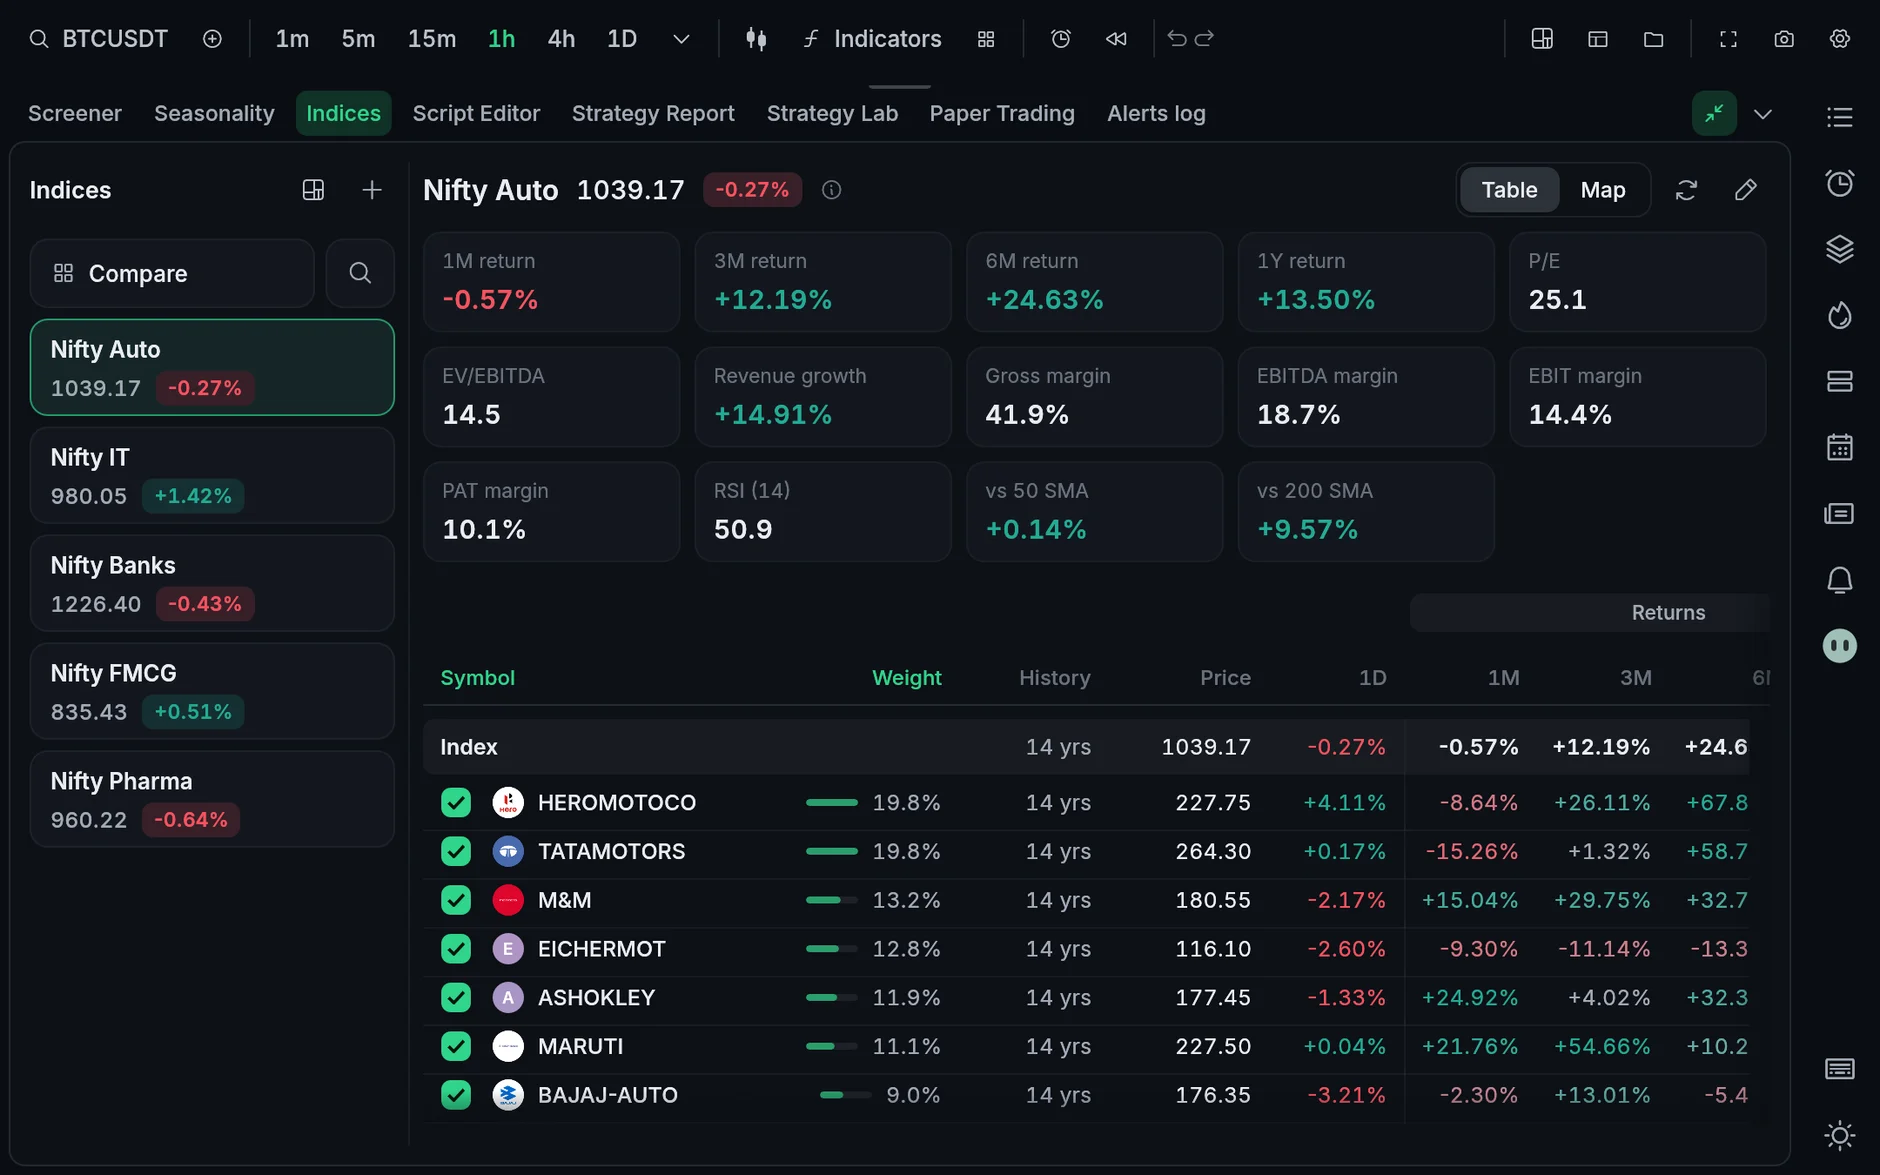
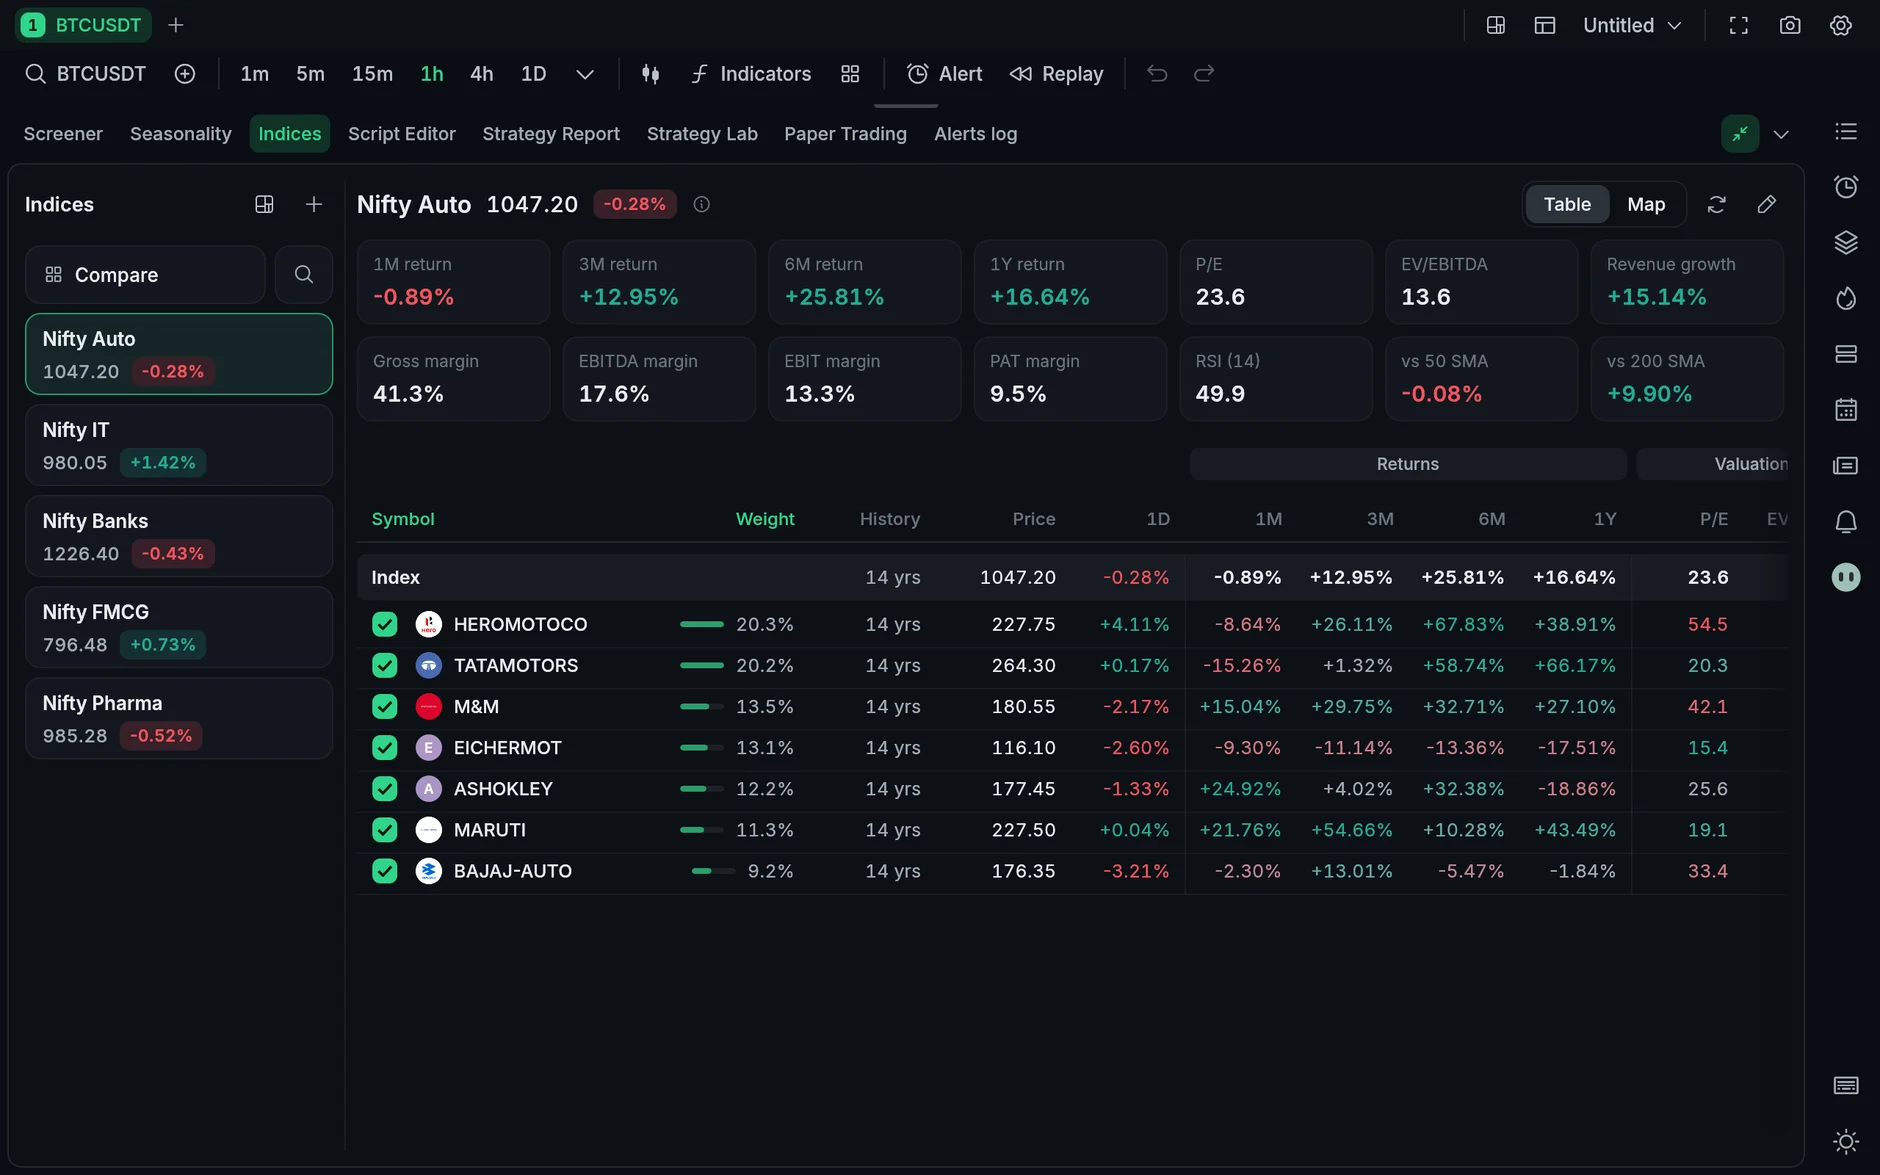
Website: new screenshots without the side panel, a drawings tab and section, a link preview card for X

diff --git a/site/index.html b/site/index.html
@@ -7,9 +7,22 @@
 <meta name="description" content="TradingView-style charts, TradingView's built-in indicators, Pine Script-compatible scripting, backtests that match TradingView's Strategy Report, and paper trading, in a native app for Linux, macOS and Windows. Free and open source.">
 <meta name="color-scheme" content="light dark">
 <meta name="theme-color" content="#14181F">
+<link rel="canonical" href="https://ahaan-shah.github.io/opentern/">
+<meta property="og:type" content="website">
+<meta property="og:site_name" content="Opentern">
+<meta property="og:url" content="https://ahaan-shah.github.io/opentern/">
 <meta property="og:title" content="Opentern">
-<meta property="og:description" content="A fast, local-first market analysis terminal for Linux, macOS and Windows.">
-<meta property="og:image" content="https://ahaan-shah.github.io/opentern/media/home-dark.webp">
+<meta property="og:description" content="TradingView-style charts, Pine Script and backtests in a fast native app for Linux, macOS and Windows. Free and open source.">
+<meta property="og:image" content="https://ahaan-shah.github.io/opentern/media/card.png">
+<meta property="og:image:type" content="image/png">
+<meta property="og:image:width" content="1200">
+<meta property="og:image:height" content="630">
+<meta property="og:image:alt" content="Opentern: your markets, on your machine. A BTCUSDT chart with indicators and a strategy.">
+<meta name="twitter:card" content="summary_large_image">
+<meta name="twitter:title" content="Opentern">
+<meta name="twitter:description" content="TradingView-style charts, Pine Script and backtests in a fast native app. Free and open source.">
+<meta name="twitter:image" content="https://ahaan-shah.github.io/opentern/media/card.png">
+<meta name="twitter:image:alt" content="Opentern: your markets, on your machine. A BTCUSDT chart with indicators and a strategy.">
 <link rel="icon" href="icon.svg" type="image/svg+xml">
 <link rel="preload" href="fonts/Figtree-Regular.woff2" as="font" type="font/woff2" crossorigin>
 <link rel="preload" href="fonts/PlusJakartaSans-SemiBold.woff2" as="font" type="font/woff2" crossorigin>
@@ -49,8 +62,8 @@
   </div>
   <p class="platforms">Free and open source · Linux, macOS and Windows</p>
   <figure class="shot hero-shot reveal">
-    <img class="only-light" src="media/home-light.webp" alt="Opentern in Opentern Light: a BTCUSDT chart with Bollinger Bands, RSI, a moving-average strategy and the watchlist" width="1880" height="1175">
-    <img class="only-dark" src="media/home-dark.webp" alt="Opentern in Tern Dark: a BTCUSDT chart with Bollinger Bands, RSI, a moving-average strategy and the watchlist" width="1880" height="1175">
+    <img class="only-light" src="media/home-light.webp" alt="Opentern in Opentern Light: a BTCUSDT chart with Bollinger Bands, RSI and a moving-average strategy, four workspaces in the row above" width="1880" height="1175">
+    <img class="only-dark" src="media/home-dark.webp" alt="Opentern in Tern Dark: a BTCUSDT chart with Bollinger Bands, RSI and a moving-average strategy, four workspaces in the row above" width="1880" height="1175">
   </figure>
 </section>
 
@@ -66,20 +79,22 @@
   <div class="tour-body reveal">
     <div class="tabs" role="tablist" aria-label="Pages">
       <button role="tab" aria-selected="false" data-i="0">Charts</button>
-      <button role="tab" aria-selected="false" data-i="1">Market overview</button>
-      <button role="tab" aria-selected="false" data-i="2">Script Editor</button>
-      <button role="tab" aria-selected="false" data-i="3">Strategy Report</button>
-      <button role="tab" aria-selected="false" data-i="4">Strategy Lab</button>
-      <button role="tab" aria-selected="false" data-i="5">Agent</button>
-      <button role="tab" aria-selected="false" data-i="6">Multi-chart</button>
-      <button role="tab" aria-selected="false" data-i="7">Screener</button>
-      <button role="tab" aria-selected="false" data-i="8">Indices</button>
-      <button role="tab" aria-selected="false" data-i="9">Seasonality</button>
-      <button role="tab" aria-selected="false" data-i="10">Settings</button>
+      <button role="tab" aria-selected="false" data-i="1">Drawings</button>
+      <button role="tab" aria-selected="false" data-i="2">Market overview</button>
+      <button role="tab" aria-selected="false" data-i="3">Script Editor</button>
+      <button role="tab" aria-selected="false" data-i="4">Strategy Report</button>
+      <button role="tab" aria-selected="false" data-i="5">Strategy Lab</button>
+      <button role="tab" aria-selected="false" data-i="6">Agent</button>
+      <button role="tab" aria-selected="false" data-i="7">Multi-chart</button>
+      <button role="tab" aria-selected="false" data-i="8">Screener</button>
+      <button role="tab" aria-selected="false" data-i="9">Indices</button>
+      <button role="tab" aria-selected="false" data-i="10">Seasonality</button>
+      <button role="tab" aria-selected="false" data-i="11">Settings</button>
     </div>
     <div class="stage">
       <div class="frames shot">
-        <img class="on" src="media/home-dark.webp" alt="A chart with indicators, a strategy and the watchlist" width="1880" height="1175">
+        <img class="on" src="media/home-dark.webp" alt="A chart with indicators and a strategy, and a row of workspaces" width="1880" height="1175">
+        <img src="media/drawings.webp" alt="Drawings with text along a trend line, a demand zone, alert lines and the favourite drawings toolbar" width="1880" height="1175" loading="lazy">
         <img src="media/overview.webp" alt="The market overview: the S&amp;P 500 as a heatmap, grouped by sector" width="1880" height="1175" loading="lazy">
         <img src="media/editor.webp" alt="The Script Editor with a Pine strategy" width="1880" height="1175" loading="lazy">
         <img src="media/report.webp" alt="The Strategy Report's overview" width="1880" height="1175" loading="lazy">
@@ -88,7 +103,7 @@
         <img src="media/multi.webp" alt="Four charts in one layout" width="1880" height="1175" loading="lazy">
         <img src="media/screener.webp" alt="The screener" width="1880" height="1175" loading="lazy">
         <img src="media/indices.webp" alt="A custom Nifty Auto index: its own numbers, then every member's" width="1880" height="1175" loading="lazy">
-        <img src="media/seasonality.webp" alt="Ten years of monthly returns for RELIANCE" width="1880" height="1175" loading="lazy">
+        <img src="media/seasonality.webp" alt="Twelve years of monthly returns for RELIANCE" width="1880" height="1175" loading="lazy">
         <img src="media/settings.webp" alt="Settings, with the themes" width="1880" height="1175" loading="lazy">
       </div>
       <p class="caption" aria-live="polite"></p>
@@ -126,7 +141,7 @@
 
 <section id="markets" class="solo">
   <h2 class="reveal">Every market, <em>at a glance</em></h2>
-  <p class="sub reveal">Heatmaps of the S&amp;P 500, the NIFTY 500 and the top 150 coins, from today back to a year. Indices and rates from around the world, perpetual futures with their funding, and holiday calendars for fifteen exchanges. Search shows each symbol’s price before you open it.</p>
+  <p class="sub reveal">Heatmaps of the S&amp;P 500, the NIFTY 500 and the top 150 coins, from today back to a year. Indices and rates from around the world, perpetual futures from the big exchanges and Hyperliquid with their funding, the Fed funds rate, and holiday calendars for fifteen exchanges. Search shows each symbol’s price before you open it.</p>
   <figure class="shot solo-shot reveal"><img src="media/overview.webp" alt="The market overview: the S&amp;P 500 as a heatmap, grouped by sector and coloured by the day's change" width="1880" height="1175" loading="lazy"></figure>
 </section>
 
@@ -136,6 +151,15 @@
   <div class="pair-grid reveal">
     <figure class="shot"><img src="media/report.webp" alt="The Strategy Report" width="1880" height="1175" loading="lazy"></figure>
     <figure class="shot"><img src="media/lab.webp" alt="The Strategy Lab's optimizer heatmap" width="1880" height="1175" loading="lazy"></figure>
+  </div>
+</section>
+
+<section id="drawings" class="pair">
+  <h2 class="reveal">Plan the trade, <em>on the chart</em></h2>
+  <p class="sub reveal">Long and Short positions work out the size from your account and risk. Choose your own Fib levels, write along your lines, and drag alerts into place. Each workspace keeps its own charts, a Ctrl+Tab away.</p>
+  <div class="pair-grid reveal">
+    <figure class="shot"><img src="media/position.webp" alt="A Long position sizing the trade from a 10,000 account and 1% risk" width="1880" height="1175" loading="lazy"></figure>
+    <figure class="shot"><img src="media/fib.webp" alt="A Fib retracement with its Levels panel open" width="1880" height="1175" loading="lazy"></figure>
   </div>
 </section>
 

diff --git a/site/site.js b/site/site.js
@@ -38,7 +38,8 @@ document.querySelector(".mode").addEventListener("click", () => {
 
 // Tour: a sidebar of pages, crossfading between screenshots.
 const captions = [
-  "Charts laid out the way TradingView has them, with its built-in indicators, drawing tools and logos for every coin and company.",
+  "Charts laid out the way TradingView has them, with its built-in indicators and logos for every coin and company. Each workspace up top keeps its own.",
+  "Text along your lines, zones, alert lines you drag, and your favourite tools on a bar of their own.",
   "A whole market as a heatmap: the S&P 500, the NIFTY 500 or the top 150 coins, by sector, over a day, a week, a month, six months or a year.",
   "Write Pine Script, Python, Luau, JavaScript or TypeScript. Save, and the chart reloads.",
   "TradingView’s Strategy Report, with the same tabs, metrics and trade list.",

diff --git a/docs/notes/release.md b/docs/notes/release.md
@@ -66,19 +66,29 @@ Moved out of `CLAUDE.md` (Nov 2026) to keep the briefing short. Keep it current:
   once the app grew (0.3.5's first tag).
 
 ## Website
-**Screenshots (refreshed 24 Nov 2026):** demo data in a seed workspace
-(`scripts/ma_cross.pine`, an MA Cross 12/30 strategy; five NSE sector indices
-written into settings `custom_indices`), a fresh copy per shot, the window
-floated to 1080x675 on ws10 and grabbed with `grim -T` (see
-`CLAUDE.local.md`), then `magick -resize 1880x1175 -quality 86` to WebP.
-Stills: home `script:ma_cross.pine,add:bb,add:rsi` (+`light`, or
-`theme:<name>` for the theme deck), `tab:script`, `tab:strategy r`,
-`lab:heatmap`, `grid:Four`, `screen`, `tab:indices,max,widget:none`,
-`symbol:NSE:RELIANCE,tf:1D,tab:seasonality,max,widget:none`,
-`settings:general,scroll:196` (past Folders, whose paths would show),
-`overview`, and the agent with `agent:claude,claude-model:sonnet,claude:<msg>`
-plus `OPENTERN_CLAUDE` pointed at a throwaway stand-in CLI that replays one
+**Screenshots (refreshed 28 Nov 2026):** demo data in a seed workspace
+(`scripts/ma_cross.pine`, an MA Cross strategy with Fast/Slow inputs so the
+Lab has something to vary; five NSE sector indices written into settings
+`custom_indices`; no saved layout, or studies double up), a fresh copy per
+shot, `~/.local/bin/opentern-dev` floated to **1280x800** on ws10 (its window
+class is `opentern-dev`) and grabbed with `grim -T` (see `CLAUDE.local.md`),
+then `magick -resize 1880x1175 -quality 86` to WebP. **Every shot has
+`widget:none`** (the side panel closed; the maintainer, Nov 2026) except the
+agent's. Stills: home `script:ma_cross.pine,add:bb,add:rsi,workspaces`
+(+`light`, or `theme:<name>` for the theme deck), `tab:script`,
+`tab:strategy r,max`, `lab:heatmap,max`, `grid:Four`, `screen,max`,
+`tab:indices,max`, `symbol:NSE:RELIANCE,tf:1D,tab:seasonality,max,season-years:12`,
+`settings:general,scroll:300` (the themes; never show the Folders rows, their
+paths would leak), `overview`, `text,favbar,alert-lines`, `position:sizing`,
+`fib:levels`, and the agent with
+`widget-w:400,agent:claude,claude-model:sonnet,claude:<msg>` plus
+`OPENTERN_CLAUDE` pointed at a throwaway stand-in CLI that replays one
 scripted turn (like `claude/fake_claude.py`; keep it out of the repo).
+**Link previews:** `site/media/card.png` (1200x630 PNG; X won't show a WebP
+card) is the `og:image`/`twitter:image` with `twitter:card =
+summary_large_image`. It's rendered from a small HTML page (site fonts, Tern
+Dark colours, the home shot) with `chromium --headless --window-size=1200,630
+--screenshot`; remake it when the home shot changes.
 `site/` (static: `index.html`, `style.css`, `site.js`, fonts, `media/`) in
 Spotsie's style and Opentern's theme colours, published by `pages.yml` to
 https://ahaan-shah.github.io/opentern/ on pushes touching `site/`. Install lines

diff --git a/README.md b/README.md
@@ -14,7 +14,7 @@ telemetry. Your data stays on your computer.
 
 [Website](https://ahaan-shah.github.io/opentern/) · [Install](#install) · [Features](#features) · [Scripting](#scripting) · [Keyboard](#keyboard) · [Your data](#your-data) · [Building](#building-from-source)
 
-<img src="site/media/home-dark.webp" alt="Opentern's chart with Bollinger Bands, RSI, a strategy and the watchlist" width="900">
+<img src="site/media/home-dark.webp" alt="Opentern's chart with Bollinger Bands, RSI and a strategy, with a row of workspaces" width="900">
 
 </div>
 
@@ -103,7 +103,7 @@ agent stay beside it.
 **Seasonality.** See how the chart's symbol did in every month of every year,
 with a slider to pick the years and a count of rises and falls per month.
 
-<img src="site/media/seasonality.webp" alt="Ten years of monthly returns for RELIANCE" width="900">
+<img src="site/media/seasonality.webp" alt="Twelve years of monthly returns for RELIANCE" width="900">
 
 **Paper trading.** Several simulated accounts with market, limit, stop,
 stop-limit, trailing and bracket orders. Trade from the chart by dragging an
